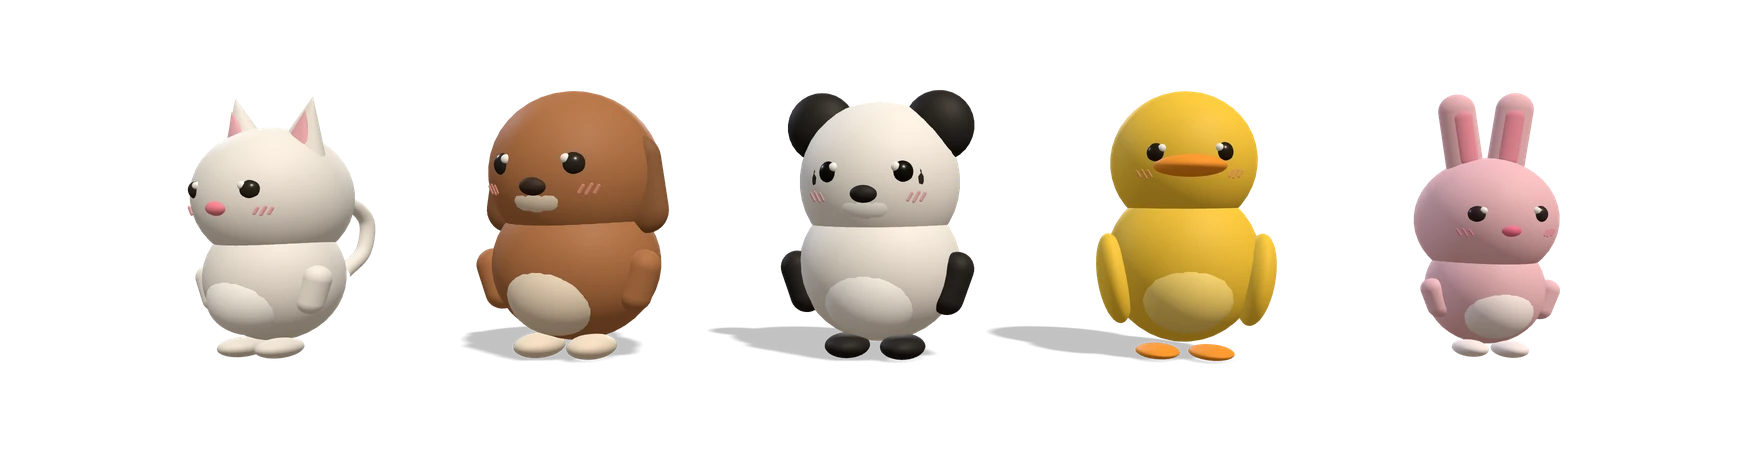
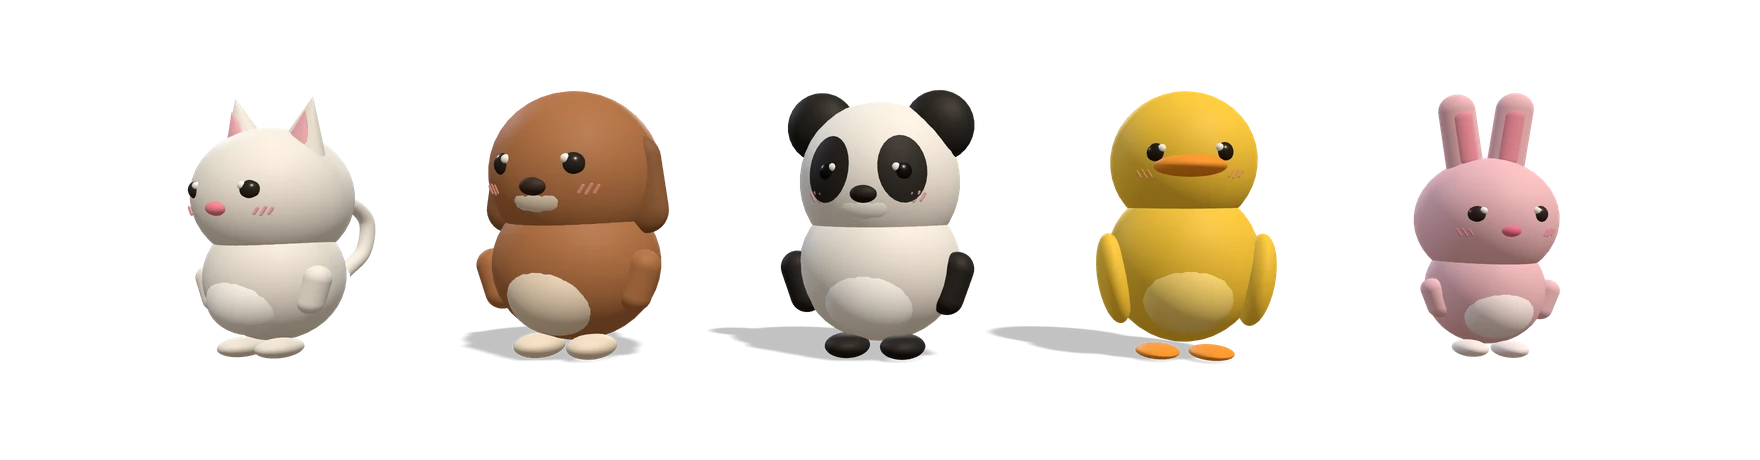
fix(pet): stop the panda's eye patches from sinking into its head
눈가에 검은 얼룩이 낀 것처럼 보였다. 무늬가 없는 게 아니라 머리 구면 안쪽에 파묻혀
가장자리 몇 조각만 삐져나오고 있었다.

납작한 공을 얼굴 앞에 놓는 방식이라 그렇다. 무늬 중심이 머리 반지름의 0.7 자리에
있는데 그 자리의 얼굴 표면은 0.91 이라, 무늬가 통째로 머리 속에 들어가 있었다.

머리보다 2% 큰 구를 일부만 잘라 씌우는 방식으로 바꿨다. 무늬가 구면을 그대로
따라가므로 어느 각도에서도 파묻히지 않고 가장자리가 얼굴에 딱 붙는다. 타원으로
만드는 것은 잘라낸 조각을 옆으로 눌러서 하는데, 반지름을 넉넉히 잡아 두어 눌러도
얼굴 밖에 남는다.

크기는 눈보다 넉넉하고 볼보다 좁게 잡았다. 더 키우면 볼의 분홍 빗금을 덮어 검은
바탕에 분홍이 떠 있는 꼴이 된다.

랜딩 그림이 같은 캐릭터 코드에서 나오므로 판다가 들어간 세 장(characters · og ·
peek-panda)을 다시 떴다. 앱 아이콘은 고양이라 그대로다.

Claude-Session: https://claude.ai/code/session_01H7k6zGKNC7MhCaGvE2tvkv

Changed region(s): [[0.4375, 0.2739, 0.5312, 0.4565]]

diff --git a/apps/desktop/src/renderer/pet/critter.ts b/apps/desktop/src/renderer/pet/critter.ts
@@ -252,17 +252,45 @@ function buildEyes(
   }
 }
 
+/**
+ * 판다의 눈 둘레 검은 무늬.
+ *
+ * **얼굴에 납작한 공을 얹으면 안 된다.** 예전에는 그렇게 했는데, 무늬가 머리 구면
+ * 안쪽에 파묻혀 가장자리 몇 조각만 삐져나왔다. 화면에서는 무늬가 아니라 눈가에 낀
+ * 검은 얼룩처럼 보였다.
+ *
+ * 그래서 머리보다 아주 조금 큰 구의 **일부만 잘라** 씌운다. 무늬가 구면을 그대로
+ * 따라가므로 어느 각도에서 봐도 파묻히지 않고, 가장자리도 얼굴에 딱 붙는다.
+ *
+ * 타원으로 만드는 것은 잘라낸 조각을 옆으로 눌러서 한다. 반지름을 머리보다 2% 크게
+ * 잡아 두어 눌러도 얼굴 밖에 남는다.
+ */
 function buildPandaEyePatches(
   head: THREE.Object3D,
   materials: CritterMaterials,
   headR: number,
 ) {
+  /**
+   * 무늬가 덮는 각도(라디안). 눈보다는 넉넉하고 볼보다는 좁아야 한다 —
+   * 더 키우면 볼의 분홍 빗금을 덮어 검은 바탕에 분홍이 떠 있는 꼴이 된다.
+   */
+  const SPREAD = 0.34
+
   for (const side of [-1, 1]) {
-    const patch = ball(headR * 0.29, materials.accent, 24)
-    patch.scale.set(0.92, 1.2, 0.42)
-    patch.position.set(side * headR * 0.41, headR * 0.05, headR * 0.7)
-    patch.rotation.z = side * 0.32
-    head.add(patch)
+    // 눈이 있는 쪽을 바라보게 — 눈 피벗보다 아주 조금 위다 (눈이 무늬 가운데 오도록)
+    const toward = new THREE.Vector3(side * 0.41, 0.11, 0.8).normalize()
+
+    const aim = new THREE.Group()
+    aim.quaternion.setFromUnitVectors(new THREE.Vector3(0, 1, 0), toward)
+    head.add(aim)
+
+    const patch = new THREE.Mesh(
+      new THREE.SphereGeometry(headR * 1.02, 28, 18, 0, Math.PI * 2, 0, SPREAD),
+      materials.accent,
+    )
+    patch.scale.set(0.88, 1, 1.16) // 세로로 조금 길쭉한 타원
+    patch.rotation.y = side * 0.55 // 눈꼬리가 바깥으로 살짝 눕는다
+    aim.add(patch)
   }
 }
 
